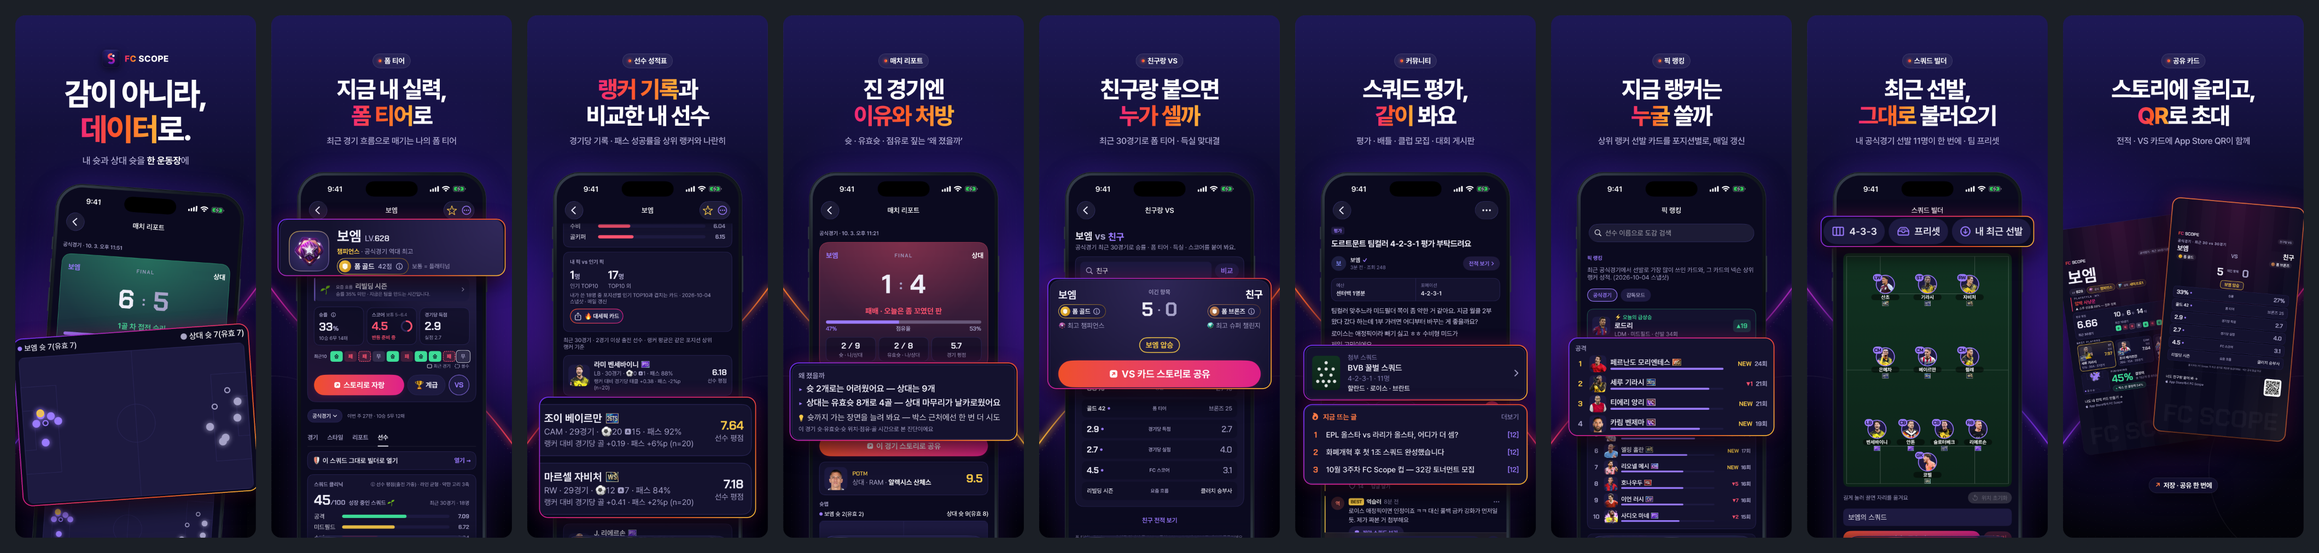
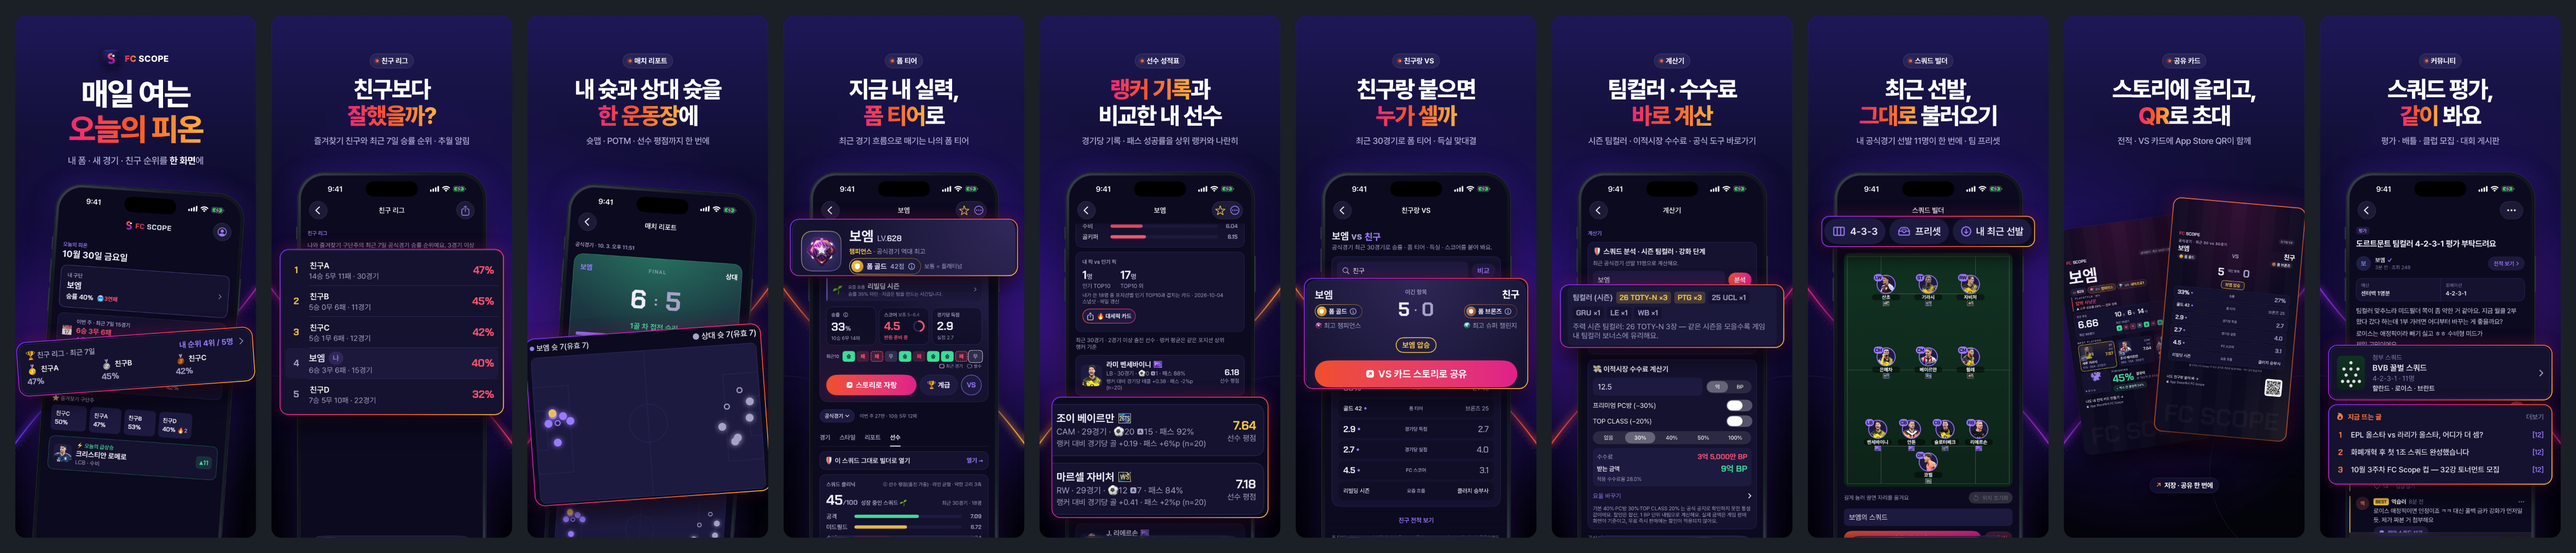
docs(store): 1.2.0 listing and 10 screenshots led by 오늘의 피온 + 친구 리그
New captures (dark, -noAds YES): home, friend league, calculators; other
users' nicknames masked to 친구A-D. Frames reordered for search-result
impact (today, league, shot map first); 04-why and 07-meta dropped for the
10-image limit. Subtitle/keywords/promo/description/what's-new for 1.2.0,
only shipped features (price = official data center link, not provided).

diff --git a/docs/STORE-LISTING.md b/docs/STORE-LISTING.md
@@ -48,7 +48,7 @@ App Store Connect → 앱 → 1.0 버전 화면에 그대로 붙여넣으면 됩
 | 앱 심사 정보 › 메모 | `SETUP-CHECKLIST.md` 6단계 심사 노트 |
 | 버전 출시 | **이 버전 수동 출시** |
 
-## 다음 업데이트 초안 (2026-11, Phase 0)
+## 1.2.0 초안 (2026-11 — 오늘의 피온 · 친구 리그 · 계산기)
 
 검색 노출용 이름·부제·키워드. **지금 앱에 있는 기능만** 넣었다 — 선수 시세·BP·급여·쿠폰·갱신시간 알림은 아직 없으니
 해당 기능이 출시되기 전까지 이름·부제·키워드·설명 어디에도 쓰지 말 것(2.3.1·2.3.7).
@@ -56,18 +56,81 @@ App Store Connect → 앱 → 1.0 버전 화면에 그대로 붙여넣으면 됩
 | 필드 | 초안 | 길이 |
 |---|---|---|
 | 이름 (30자) | `FC Scope - 피온 전적 검색·분석` | 22자 |
-| 부제 (30자) | `최근 30경기 진단·슛맵·스쿼드 카드` | 20자 |
-| 키워드 (100바이트) | `FC온라인,랭커비교,선수성적표,감독모드,공식경기,플레이스타일,위젯,계급` | 99바이트 |
+| 부제 (30자) | `전적 진단·친구 리그·스쿼드 계산기` | 19자 |
+| 키워드 (100바이트) | `FC온라인,랭커비교,선수성적표,감독모드,공식경기,수수료,팀컬러,위젯,계급` | 100바이트 |
 
-- 이름·부제에 들어간 단어(피온·전적·검색·분석·진단·슛맵·스쿼드·카드)는 키워드에서 뺐다 — 중복은 노출에 도움이 안 된다.
+- 이름·부제에 들어간 단어(피온·전적·검색·분석·진단·친구·리그·스쿼드·계산기)는 키워드에서 뺐다 — 중복은 노출에 도움이 안 된다.
+- `수수료`(이적시장 수수료 계산기)·`팀컬러`(시즌 팀컬러 계산 + 공식 도구 링크)는 1.2 에 실제로 있는 기능이다. 클럽·국가 팀컬러는 직접 계산하지 않으니 설명에 그렇게 쓰지 말 것.
 - ⚠ "FC온라인"은 NEXON 상표다. 이름·부제에는 넣지 않았고, 키워드에서 문제 되면 가장 먼저 뺄 단어.
 - 홈 화면 아이콘 아래 이름(CFBundleDisplayName)은 `FC Scope` 그대로 둔다 — 스토어 이름만 바꾼다.
-- 시세 기능(B안)이 나오면 그때 `시세` 를 부제에, `BP,급여,팀컬러` 를 키워드에 넣는다.
+- 시세 기능(B안)이 나오면 그때 `시세` 를 부제에, `BP,급여` 를 키워드에 넣는다. 지금 시세는 공식 데이터센터 **링크**뿐이라 "시세 제공"이라고 쓰면 안 된다.
 
 ### 프로모션 텍스트 (170자)
 ```
-구단주명 하나로 최근 30경기를 진단해요. 슛맵, 랭커와 비교한 선수 성적표, 최근 선발 그대로 불러오는 스쿼드, 인스타 스토리용 전적 카드까지. 일요일 밤엔 주간 성적표가 와요. 로그인 없이 바로.
+구단주명 하나로 최근 30경기를 진단해요. 매일 여는 오늘의 피온에서 내 폼과 새 경기를 보고, 즐겨찾기 친구와 최근 7일 승률로 순위를 겨뤄요. 슛맵·선수 성적표·공유 카드까지, 로그인 없이 바로.
 ```
+
+### 설명 (4,000자)
+```
+감이 아니라, 데이터로.
+FC Scope는 넥슨 오픈API 기반의 FC온라인 전적 분석 앱이에요. 구단주명만 입력하면 로그인 없이 바로 볼 수 있어요.
+
+■ 오늘의 피온
+· 내 구단 폼과 지난 방문 이후 새 경기
+· 이번 주 성적, 즐겨찾기 구단주 폼 변화
+· 오늘의 급상승 카드, 커뮤니티 인기 글
+
+■ 친구 리그
+· 즐겨찾기한 친구와 최근 7일 공식경기 승률 순위
+· 친구가 나를 앞지르면 알림(원할 때만)
+
+■ 전적 진단
+· 공식경기 · 감독모드 · 클래식 1on1 최근 경기 승률과 폼 티어
+· 경기 · 스타일 · 리포트 · 선수 네 가지 보기
+· 시간대별 득실, 슛 종류별 결정력, 자주 만난 상대 전적
+
+■ 매치 리포트
+· 내 슛과 상대 슛을 한 운동장에 그린 슛맵
+· 경기 최우수 선수(POTM), 팀 스탯, 선수 평점
+
+■ 선수
+· 포지션별 인기 카드와 급상승 카드, 카드별 넥슨 랭커 성적(매일 갱신)
+· 선수 시세(BP)·급여는 넥슨 공식 데이터센터로 바로 연결
+
+■ 스쿼드 · 계산기
+· 포메이션에 선수 배치, 내 최근 선발 그대로 불러오기, 인기 팀 프리셋
+· 시즌 팀컬러 계산, 이적시장 수수료 계산기
+· 공식 데이터센터 팀컬러·강화 부스트 도우미 바로가기
+
+■ 자랑하고 공유하기
+· 전적·계급·주간·폼·저격·매치·스쿼드 카드를 인스타 스토리 크기로 만들어 바로 공유
+
+■ 위젯 · 알림
+· 홈 화면·잠금 화면에서 내 폼 확인
+· 일요일 밤 주간 성적표, 금요일 메타 한 줄 요약(원할 때만)
+
+■ 커뮤니티
+· 스쿼드 배틀 투표, 클럽원 모집, 스쿼드 평가
+
+FC Scope는 비공식 팬 서비스이며 NEXON · EA와 관련이 없습니다. 게임 데이터의 저작권은 NEXON · EA에 있습니다.
+문의: humsleep@naver.com
+```
+
+### 이번 버전의 새로운 기능
+```
+· 새 홈 "오늘의 피온" — 내 폼, 새 경기, 이번 주 성적을 한 화면에
+· 친구 리그 — 즐겨찾기 친구와 최근 7일 승률 순위, 추월 알림
+· 계산기 — 시즌 팀컬러, 이적시장 수수료
+· 선수 탭에서 공식 데이터센터 시세로 바로 이동
+· 내 구단·즐겨찾기·최근 상대 검색에는 전면 광고가 뜨지 않아요
+```
+
+### 스크린샷 (6.9형 1320×2868, 10장)
+`docs/store-v2/screenshots-v4/` 01~10 순서대로(다른 이용자 닉네임은 `src/mask.mjs` 로 친구A~D·상대로 가림).
+1. `01-today` 오늘의 피온 · 2. `02-league` 친구 리그 · 3. `03-shotmap` 매치 리포트 슛맵 · 4. `04-form` 폼 티어 · 5. `05-players` 선수 성적표
+6. `06-vs` 친구랑 VS · 7. `07-calc` 계산기 · 8. `08-squad` 스쿼드 빌더 · 9. `09-cards` 공유 카드 · 10. `10-community` 커뮤니티
+
+> 07 계산기는 서버(fconline `eb2a7bd`) 배포 전에 찍어 "강화 단계는 서버 업데이트 후 보여요" 문구가 작게 보인다 — 배포 후 `src/raw/calc.png` 를 다시 찍고 `node src/mask.mjs && node src/render.mjs 07` 로 갱신.
 
 ---
 
